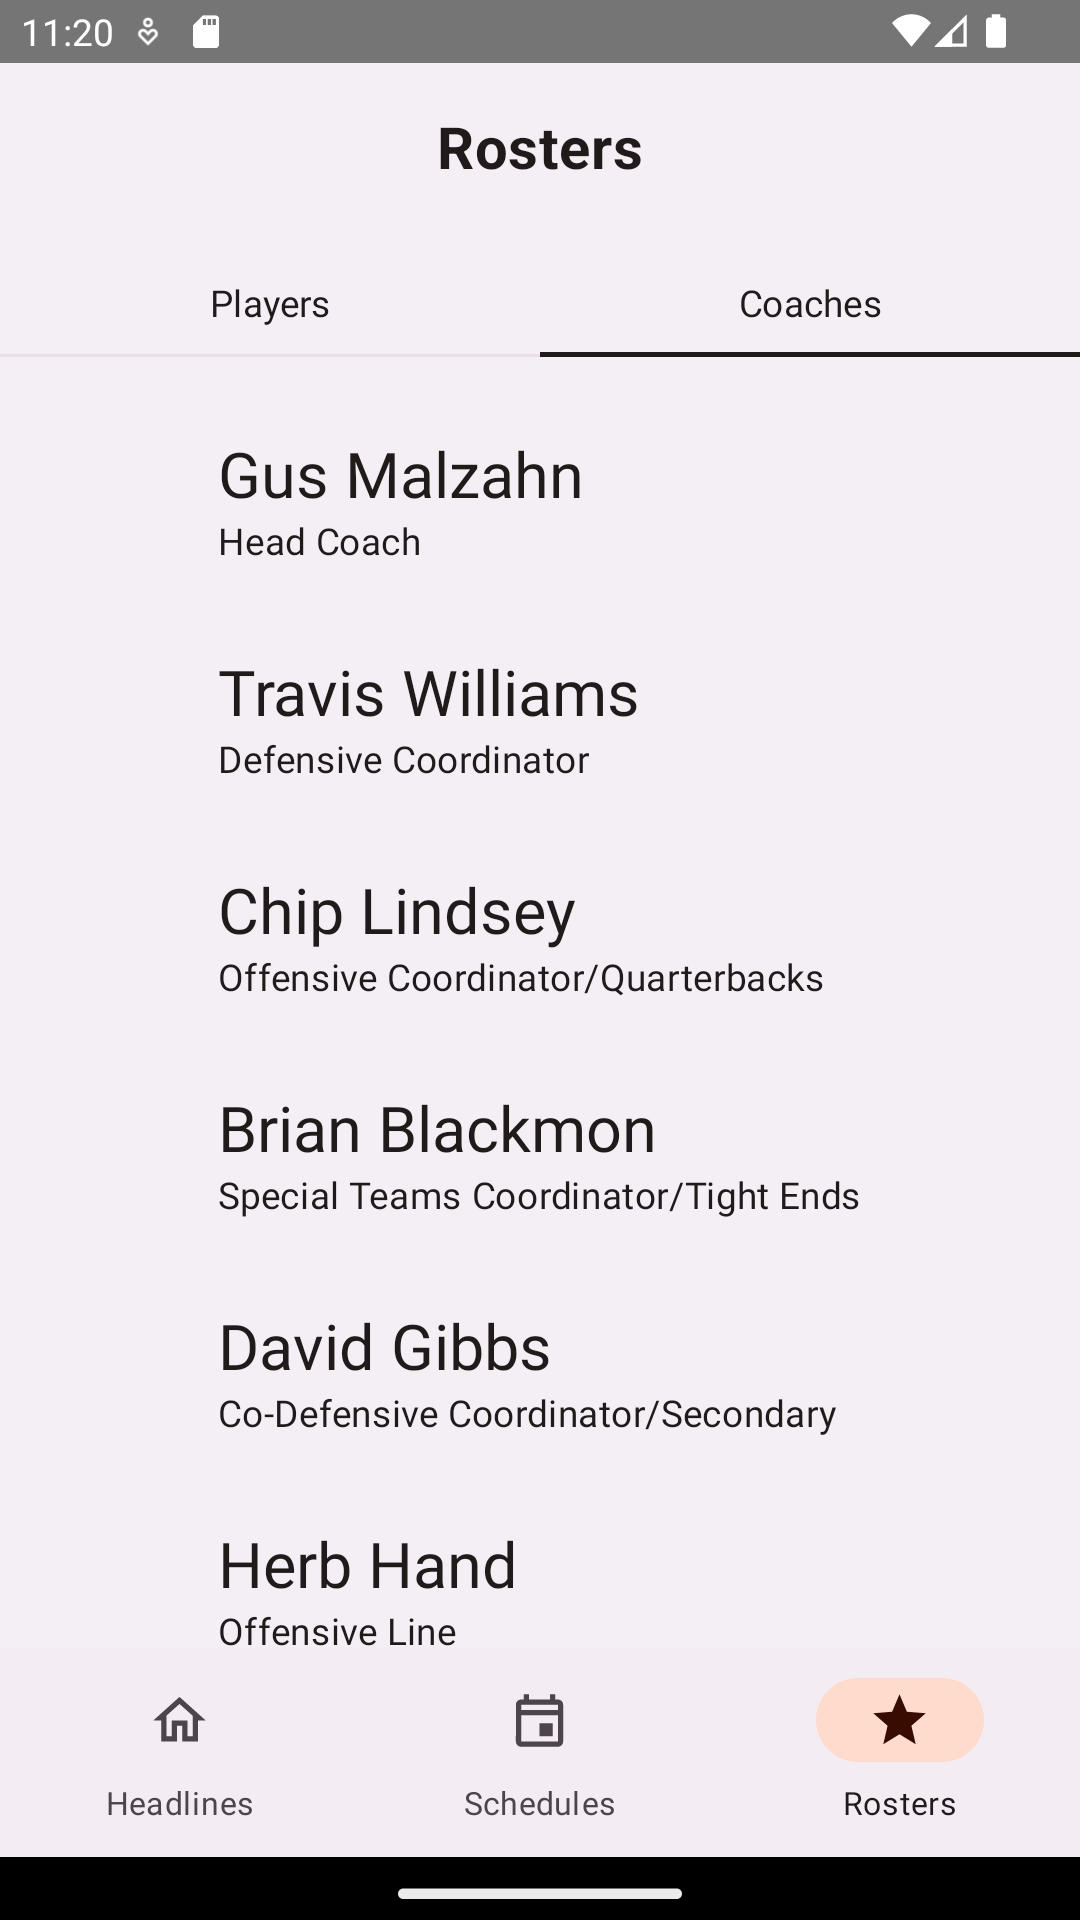
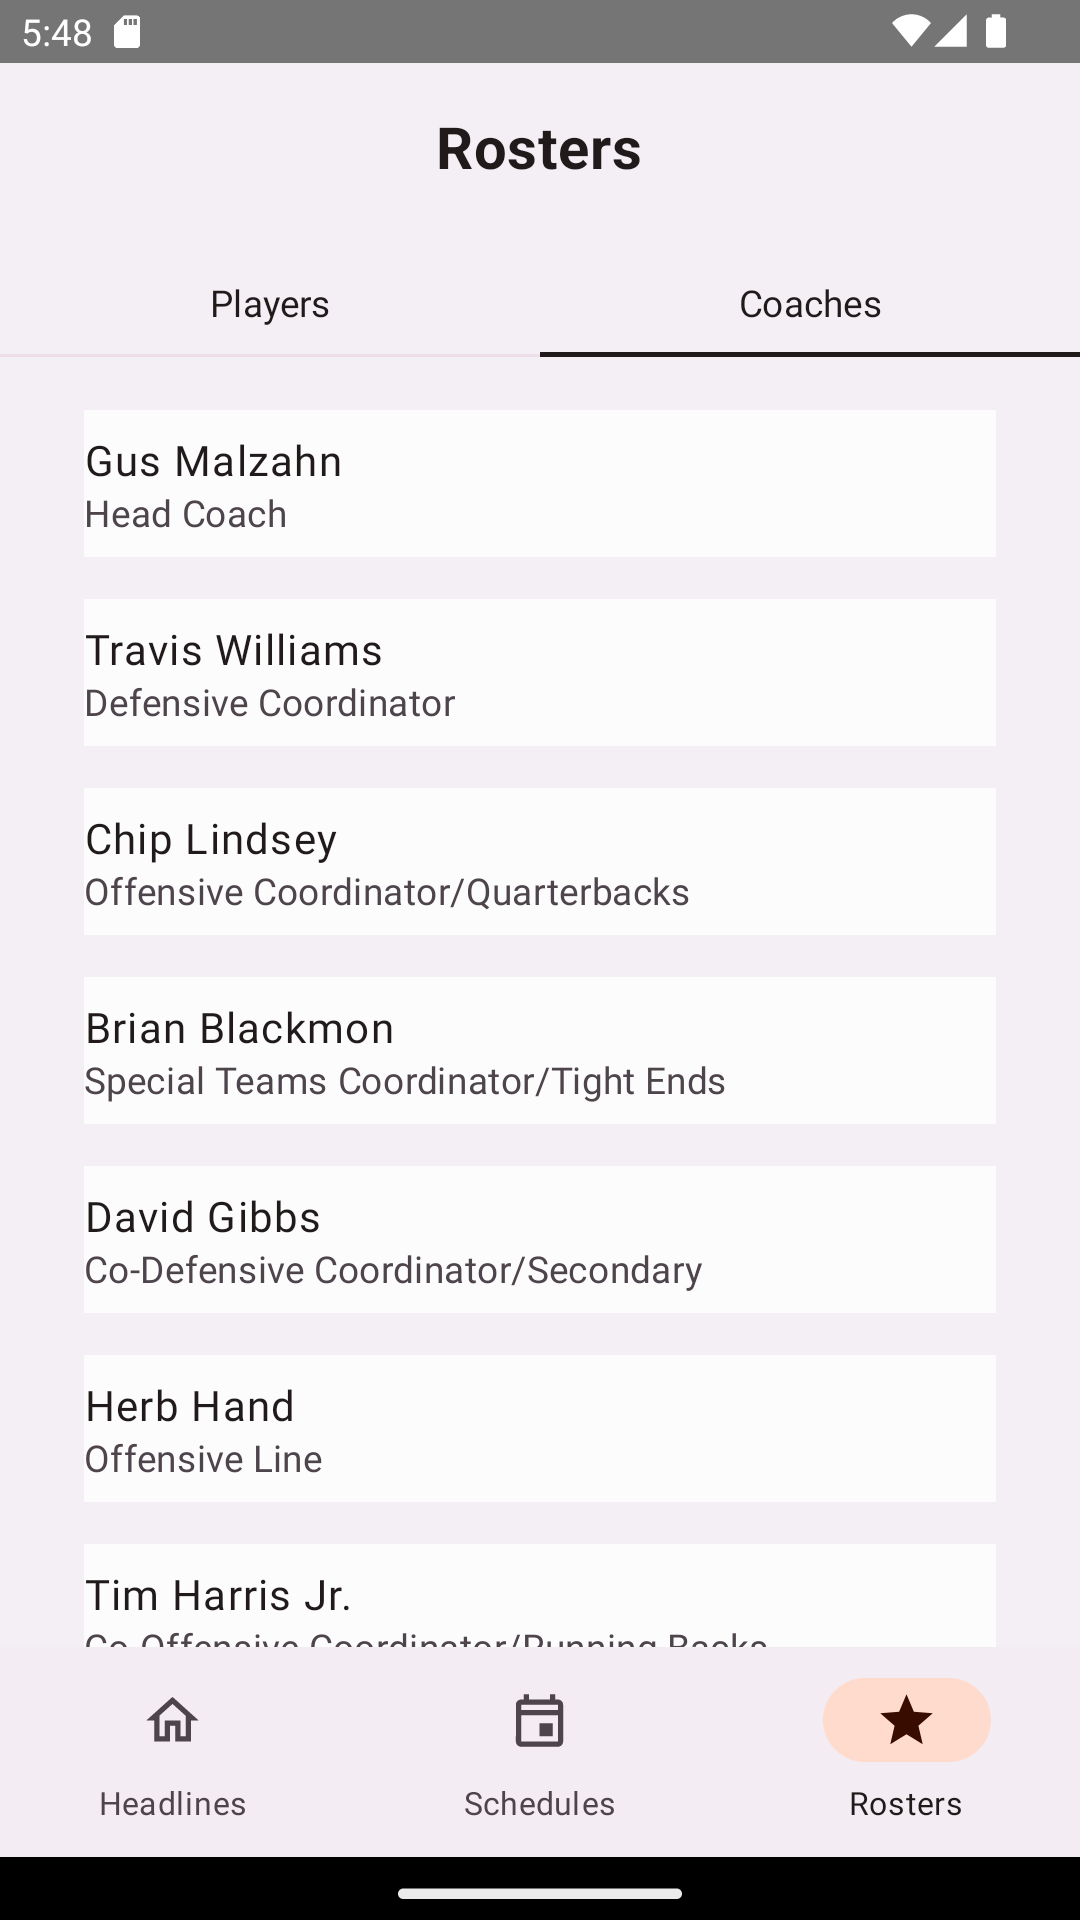
Replaced some screenshot images. Updated some libraries.

diff --git a/feature-rosters/src/main/kotlin/com/jonathansteele/feature/rosters/RostersScreen.kt b/feature-rosters/src/main/kotlin/com/jonathansteele/feature/rosters/RostersScreen.kt
@@ -3,7 +3,8 @@ package com.jonathansteele.feature.rosters
 import androidx.compose.foundation.layout.*
 import androidx.compose.foundation.lazy.LazyColumn
 import androidx.compose.foundation.lazy.items
-import androidx.compose.material3.MaterialTheme
+import androidx.compose.material3.ExperimentalMaterial3Api
+import androidx.compose.material3.ListItem
 import androidx.compose.material3.Text
 import androidx.compose.runtime.Composable
 import androidx.compose.runtime.collectAsState
@@ -13,7 +14,6 @@ import androidx.compose.ui.Alignment
 import androidx.compose.ui.Modifier
 import androidx.compose.ui.res.stringResource
 import androidx.compose.ui.tooling.preview.Preview
-import androidx.compose.ui.unit.Dp
 import androidx.compose.ui.unit.dp
 import androidx.hilt.navigation.compose.hiltViewModel
 import com.google.accompanist.pager.ExperimentalPagerApi
@@ -50,6 +50,7 @@ fun RostersScreen(
                 )
             }
         }
+        val rostersState by viewModel.rosters.collectAsState()
         HorizontalPager(
             state = pagerState,
             count = tabState.titles.size,
@@ -58,17 +59,15 @@ fun RostersScreen(
         ) { index ->
             when(index) {
                 0 -> {
-                    val rostersState by viewModel.players.collectAsState()
                     LazyColumn(modifier = modifier.padding(horizontal = 16.dp)) {
-                        items(rostersState) {
+                        items(rostersState.players) {
                             PlayersListItem(players = it)
                         }
                     }
                 }
                 1 -> {
-                    val rostersState by viewModel.coaches.collectAsState()
                     LazyColumn(modifier = modifier.padding(horizontal = 16.dp)) {
-                        items(rostersState) {
+                        items(rostersState.coaches) {
                             CoachesListItem(coaches = it)
                         }
                     }
@@ -78,53 +77,23 @@ fun RostersScreen(
     }
 }
 
+@OptIn(ExperimentalMaterial3Api::class)
 @Composable
-fun PlayersListItem(
-    players: Players,
-    modifier: Modifier = Modifier,
-    itemSeparation: Dp = 16.dp
-) {
-    Row(
-        verticalAlignment = Alignment.CenterVertically,
-        modifier = modifier
-    ) {
-        Row(
-            verticalAlignment = Alignment.CenterVertically,
-            modifier = Modifier
-                .weight(1f)
-                .padding(vertical = itemSeparation)
-        ) {
-            Text(
-                text = players.number!!,
-                style = MaterialTheme.typography.labelMedium
-            )
-            Spacer(modifier = Modifier.width(16.dp))
-            Column {
-                Text(
-                    text = players.name!!,
-                    style = MaterialTheme.typography.headlineSmall,
-                )
-                Text(
-                    text = players.position!!,
-                    style = MaterialTheme.typography.bodyMedium,
-                )
-            }
-        }
-    }
+fun PlayersListItem(players: Players) {
+    ListItem(
+        headlineText = { Text(text = players.name!!) },
+        supportingText = { Text(text = players.position!!) },
+        leadingContent = { Text(text = players.number!!) }
+    )
 }
 
+@OptIn(ExperimentalMaterial3Api::class)
 @Composable
 fun CoachesListItem(coaches: Coaches) {
-    Column {
-        Text(
-            text = coaches.name!!,
-            style = MaterialTheme.typography.headlineSmall,
-        )
-        Text(
-            text = coaches.position!!,
-            style = MaterialTheme.typography.bodyMedium,
-        )
-    }
+    ListItem(
+        headlineText = { Text(text = coaches.name!!) },
+        supportingText = { Text(text = coaches.position!!) }
+    )
 }
 
 @Preview(showBackground = true)

diff --git a/feature-headlines/src/main/kotlin/com/jonathansteele/feature/headlines/HeadlinesScreen.kt b/feature-headlines/src/main/kotlin/com/jonathansteele/feature/headlines/HeadlinesScreen.kt
@@ -6,15 +6,14 @@ import androidx.compose.foundation.clickable
 import androidx.compose.foundation.layout.*
 import androidx.compose.foundation.lazy.LazyColumn
 import androidx.compose.foundation.lazy.items
-import androidx.compose.material3.MaterialTheme
+import androidx.compose.material3.ExperimentalMaterial3Api
+import androidx.compose.material3.ListItem
 import androidx.compose.material3.Text
 import androidx.compose.runtime.Composable
 import androidx.compose.runtime.collectAsState
-import androidx.compose.ui.Alignment
 import androidx.compose.ui.Modifier
 import androidx.compose.ui.platform.LocalContext
 import androidx.compose.ui.tooling.preview.Preview
-import androidx.compose.ui.unit.Dp
 import androidx.compose.ui.unit.dp
 import androidx.core.content.ContextCompat
 import androidx.hilt.navigation.compose.hiltViewModel
@@ -51,44 +50,26 @@ private fun HeadlinesIcon(url: String?, modifier: Modifier = Modifier) {
     )
 }
 
+@OptIn(ExperimentalMaterial3Api::class)
 @Composable
 private fun HeadlinesListItem(
     data: Data,
     modifier: Modifier = Modifier,
     iconModifier: Modifier = Modifier,
-    itemSeparation: Dp = 16.dp
 ) {
     val launchResourceIntent =
         Intent(Intent.ACTION_VIEW, Uri.parse("https://ucfknights.com${data.story_path}"))
     val context = LocalContext.current
-    Row(
-        verticalAlignment = Alignment.CenterVertically,
-        modifier = modifier
-    ) {
-        Row(
-            verticalAlignment = Alignment.CenterVertically,
-            modifier = Modifier
-                .weight(1f)
-                .padding(vertical = itemSeparation)
-        ) {
+    ListItem(
+        headlineText = { Text(text = data.story_headline!!) },
+        supportingText = { Text(text = data.story_created!!) },
+        leadingContent = {
             HeadlinesIcon(url = data.story_image, iconModifier.size(64.dp))
-            Spacer(modifier = Modifier.width(16.dp))
-            Column(
-                modifier = modifier.clickable {
-                    ContextCompat.startActivity(context, launchResourceIntent, null)
-                }
-            ) {
-                Text(
-                    text = data.story_headline!!,
-                    style = MaterialTheme.typography.headlineSmall,
-                )
-                Text(
-                    text = data.story_created!!,
-                    style = MaterialTheme.typography.bodyMedium,
-                )
-            }
+        },
+        modifier = modifier.clickable {
+            ContextCompat.startActivity(context, launchResourceIntent, null)
         }
-    }
+    )
 }
 
 

diff --git a/feature-schedules/src/main/kotlin/com/jonathansteele/feature/schedules/ScheduleScreen.kt b/feature-schedules/src/main/kotlin/com/jonathansteele/feature/schedules/ScheduleScreen.kt
@@ -1,18 +1,16 @@
 package com.jonathansteele.feature.schedules
 
 import androidx.compose.foundation.layout.Column
-import androidx.compose.foundation.layout.Row
 import androidx.compose.foundation.layout.padding
 import androidx.compose.foundation.lazy.LazyColumn
 import androidx.compose.foundation.lazy.items
-import androidx.compose.material3.MaterialTheme
+import androidx.compose.material3.ExperimentalMaterial3Api
+import androidx.compose.material3.ListItem
 import androidx.compose.material3.Text
 import androidx.compose.runtime.Composable
 import androidx.compose.runtime.collectAsState
-import androidx.compose.ui.Alignment
 import androidx.compose.ui.Modifier
 import androidx.compose.ui.tooling.preview.Preview
-import androidx.compose.ui.unit.Dp
 import androidx.compose.ui.unit.dp
 import androidx.hilt.navigation.compose.hiltViewModel
 import com.jonathansteele.core.ui.SportsBackground
@@ -35,35 +33,14 @@ fun SchedulesScreen(
     }
 }
 
+@OptIn(ExperimentalMaterial3Api::class)
 @Composable
-fun ScheduleListItem(
-    schedule: Schedule,
-    modifier: Modifier = Modifier,
-    itemSeparation: Dp = 16.dp
-) {
-    Row(
-        verticalAlignment = Alignment.CenterVertically,
-        modifier = modifier
-    ) {
-        Row(
-            verticalAlignment = Alignment.CenterVertically,
-            modifier = Modifier
-                .weight(1f)
-                .padding(vertical = itemSeparation)
-        ) {
-            Column {
-                Text(
-                    text = schedule.opponent!!,
-                    style = MaterialTheme.typography.headlineSmall,
-                )
-                Text(
-                    text = schedule.location!!,
-                    style = MaterialTheme.typography.bodyMedium,
-                )
-            }
-        }
-        Text(text = schedule.startDate!!)
-    }
+fun ScheduleListItem(schedule: Schedule) {
+    ListItem(
+        headlineText = { Text(text = schedule.opponent!!) },
+        supportingText = { Text(text = schedule.location!!) },
+        trailingContent = { Text(text = schedule.startDate!!) }
+    )
 }
 
 @Preview(showBackground = true)

diff --git a/feature-rosters/src/main/kotlin/com/jonathansteele/feature/rosters/RostersDOMParser.kt b/feature-rosters/src/main/kotlin/com/jonathansteele/feature/rosters/RostersDOMParser.kt
@@ -2,31 +2,24 @@ package com.jonathansteele.feature.rosters
 
 import org.jsoup.Jsoup
 
-fun parsePlayersDOM(html: String): List<Players> {
-    val rostersList = mutableListOf<Players>()
+fun parseRostersDOM(html: String): Rosters {
+    val rosters = Rosters(players = mutableListOf(), coaches = mutableListOf())
     val doc = Jsoup.parse(html)
-    val tr = doc.select("div.sidearm-roster-grid-template-1 > table > tbody > tr")
-    tr.forEach {
-        rostersList.add(
-            Players(
+    val playersTR = doc.select("div.sidearm-roster-grid-template-1 > table > tbody > tr")
+    playersTR.forEach {
+        rosters.players.add(Players(
             number = it.select("td.roster_jerseynum ").text(),
             name = it.select("td.sidearm-table-player-name").text(),
             position = it.select("td.rp_position_short ").text()
         ))
     }
-    return rostersList
-}
-
-fun parseCoachesDOM(html: String): List<Coaches> {
-    val coachesList = mutableListOf<Coaches>()
-    val doc = Jsoup.parse(html)
-    val tr = doc.select("div.row.collapse div table tbody tr")
-    tr.forEach {
+    val coachesTR = doc.select("div.row.collapse div table tbody tr")
+    coachesTR.forEach {
         val td = it.select("td")
-        coachesList.add(Coaches(
+        rosters.coaches.add(Coaches(
             td[1].text(),
             td[2].text()
         ))
     }
-    return coachesList
+    return rosters
 }

diff --git a/feature-rosters/src/main/kotlin/com/jonathansteele/feature/rosters/RostersFetcher.kt b/feature-rosters/src/main/kotlin/com/jonathansteele/feature/rosters/RostersFetcher.kt
@@ -21,7 +21,6 @@ import kotlinx.coroutines.Dispatchers
 import kotlinx.coroutines.withContext
 import okhttp3.OkHttpClient
 import okhttp3.Request
-import okhttp3.Response
 import java.io.IOException
 import javax.inject.Inject
 
@@ -33,7 +32,7 @@ import javax.inject.Inject
 class RostersFetcher @Inject constructor(
     private val okHttpClient: OkHttpClient
 ) {
-    private suspend fun fetchResources(): Response {
+    suspend fun fetchRosters(): Rosters {
         // Create request for remote resource.
         val request = Request.Builder()
             .url("https://ucfknights.com/sports/football/roster")
@@ -42,23 +41,10 @@ class RostersFetcher @Inject constructor(
 
         // If the network request wasn't successful, throw an exception
         if (!response.isSuccessful) throw IOException("Unexpected code $response")
-        return response
-    }
 
-    suspend fun fetchPlayers(): List<Players> {
-        val response = fetchResources()
         return withContext(Dispatchers.IO) {
             response.body.use {
-                parsePlayersDOM(it.string())
-            }
-        }
-    }
-
-    suspend fun fetchCoaches(): List<Coaches> {
-        val response = fetchResources()
-        return withContext(Dispatchers.IO) {
-            response.body.use {
-                parseCoachesDOM(it.string())
+                parseRostersDOM(it.string())
             }
         }
     }

diff --git a/feature-rosters/src/main/kotlin/com/jonathansteele/feature/rosters/RostersViewModel.kt b/feature-rosters/src/main/kotlin/com/jonathansteele/feature/rosters/RostersViewModel.kt
@@ -19,22 +19,13 @@ class RostersViewModel @Inject constructor(
     )
     val tabState: StateFlow<RostersTabState> = _tabState.asStateFlow()
 
-    // Observe players information
-    val players = flow {
-        emit(rostersFetcher.fetchPlayers())
+    // Observe rosters information for players and coaches
+    val rosters = flow {
+        emit(rostersFetcher.fetchRosters())
     }.stateIn(
         scope = viewModelScope,
         started = SharingStarted.WhileSubscribed(5000L),
-        initialValue = emptyList()
-    )
-
-    // Observe players information
-    val coaches = flow {
-        emit(rostersFetcher.fetchCoaches())
-    }.stateIn(
-        scope = viewModelScope,
-        started = SharingStarted.WhileSubscribed(5000L),
-        initialValue = emptyList()
+        initialValue = Rosters(mutableListOf(), mutableListOf())
     )
 
     fun switchTab(newIndex: Int) {

diff --git a/feature-schedules/src/main/kotlin/com/jonathansteele/feature/schedules/ScheduleXMLParser.kt b/feature-schedules/src/main/kotlin/com/jonathansteele/feature/schedules/ScheduleXMLParser.kt
@@ -90,7 +90,7 @@ private fun readStartDate(parser: XmlPullParser): String {
     parser.require(XmlPullParser.START_TAG, ns, "ev:startdate")
     val utcTime = readText(parser)
     try {
-        val formatter = DateTimeFormatter.ofPattern("MMMM dd / h:mm a")
+        val formatter = DateTimeFormatter.ofPattern("MMM dd / h:mm a")
         val zdf = ZonedDateTime.parse(utcTime).withZoneSameInstant(ZoneId.systemDefault())
         return zdf.format(formatter)
     } catch (_: DateTimeParseException) {

diff --git a/feature-rosters/src/main/kotlin/com/jonathansteele/feature/rosters/Rosters.kt b/feature-rosters/src/main/kotlin/com/jonathansteele/feature/rosters/Rosters.kt
@@ -3,6 +3,12 @@ package com.jonathansteele.feature.rosters
 import androidx.compose.runtime.Immutable
 
 @Immutable
+data class Rosters(
+    val players: MutableList<Players>,
+    val coaches: MutableList<Coaches>
+)
+
+@Immutable
 data class Players(
     val number: String?,
     val name: String?,
